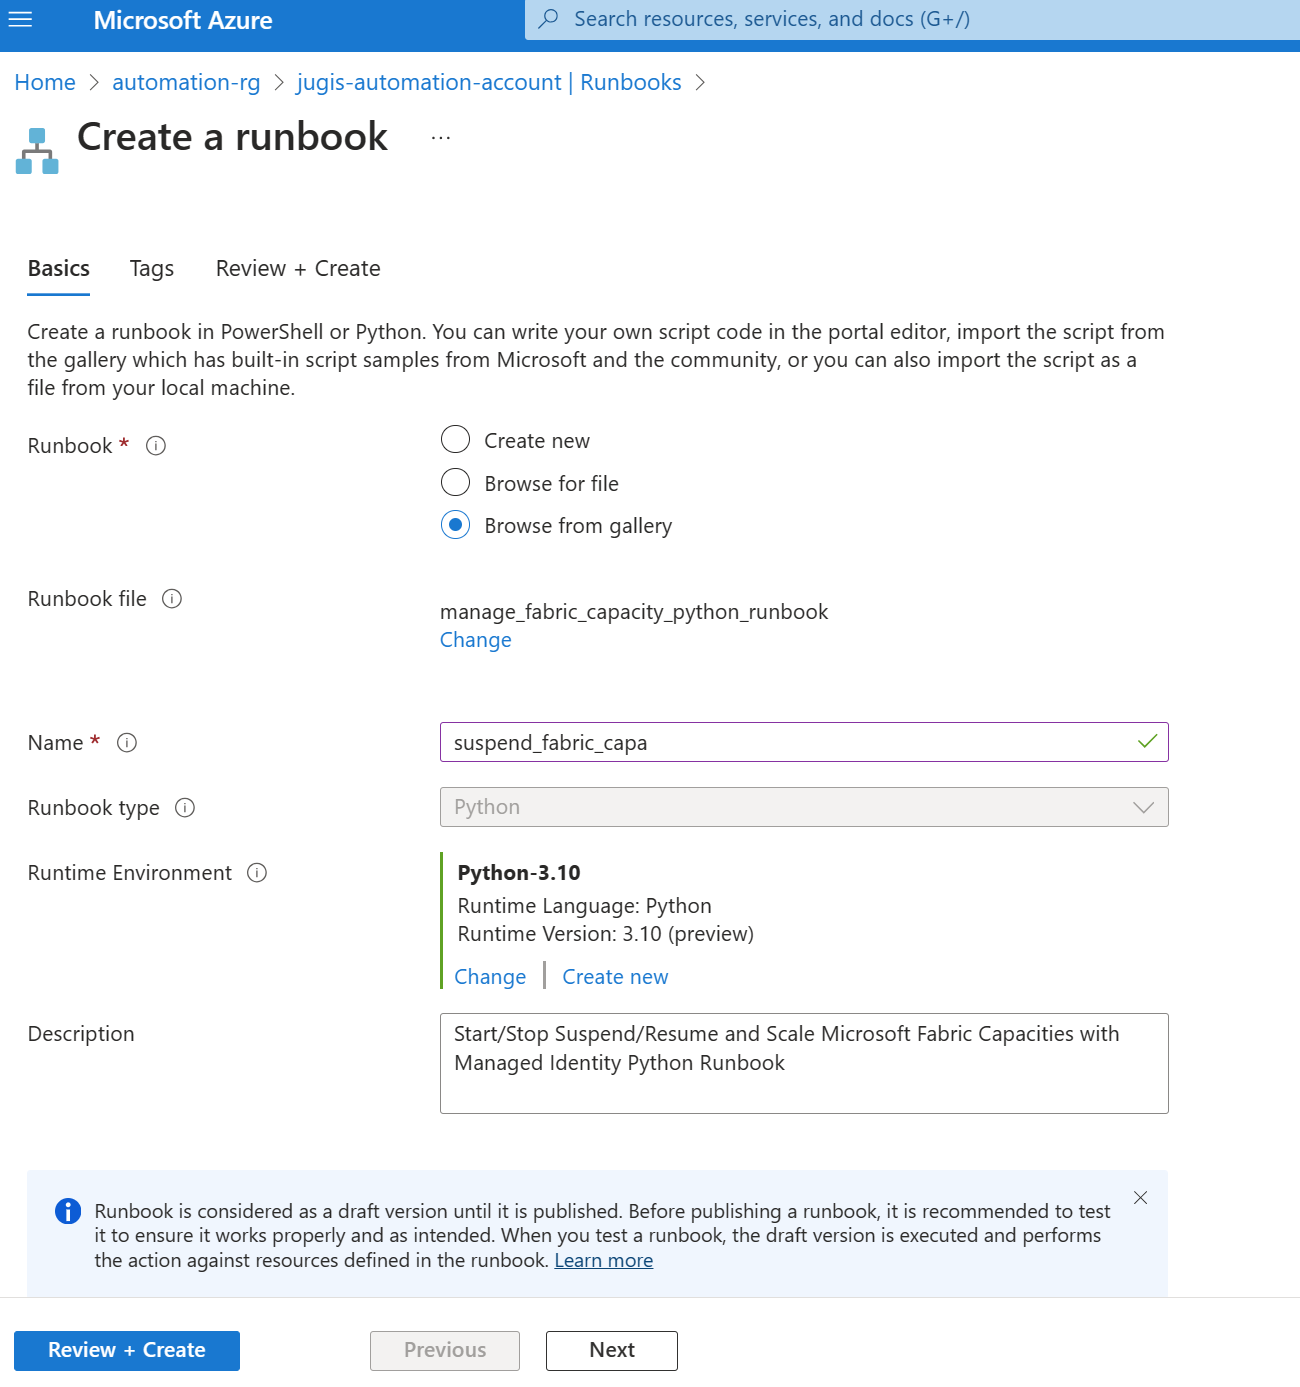
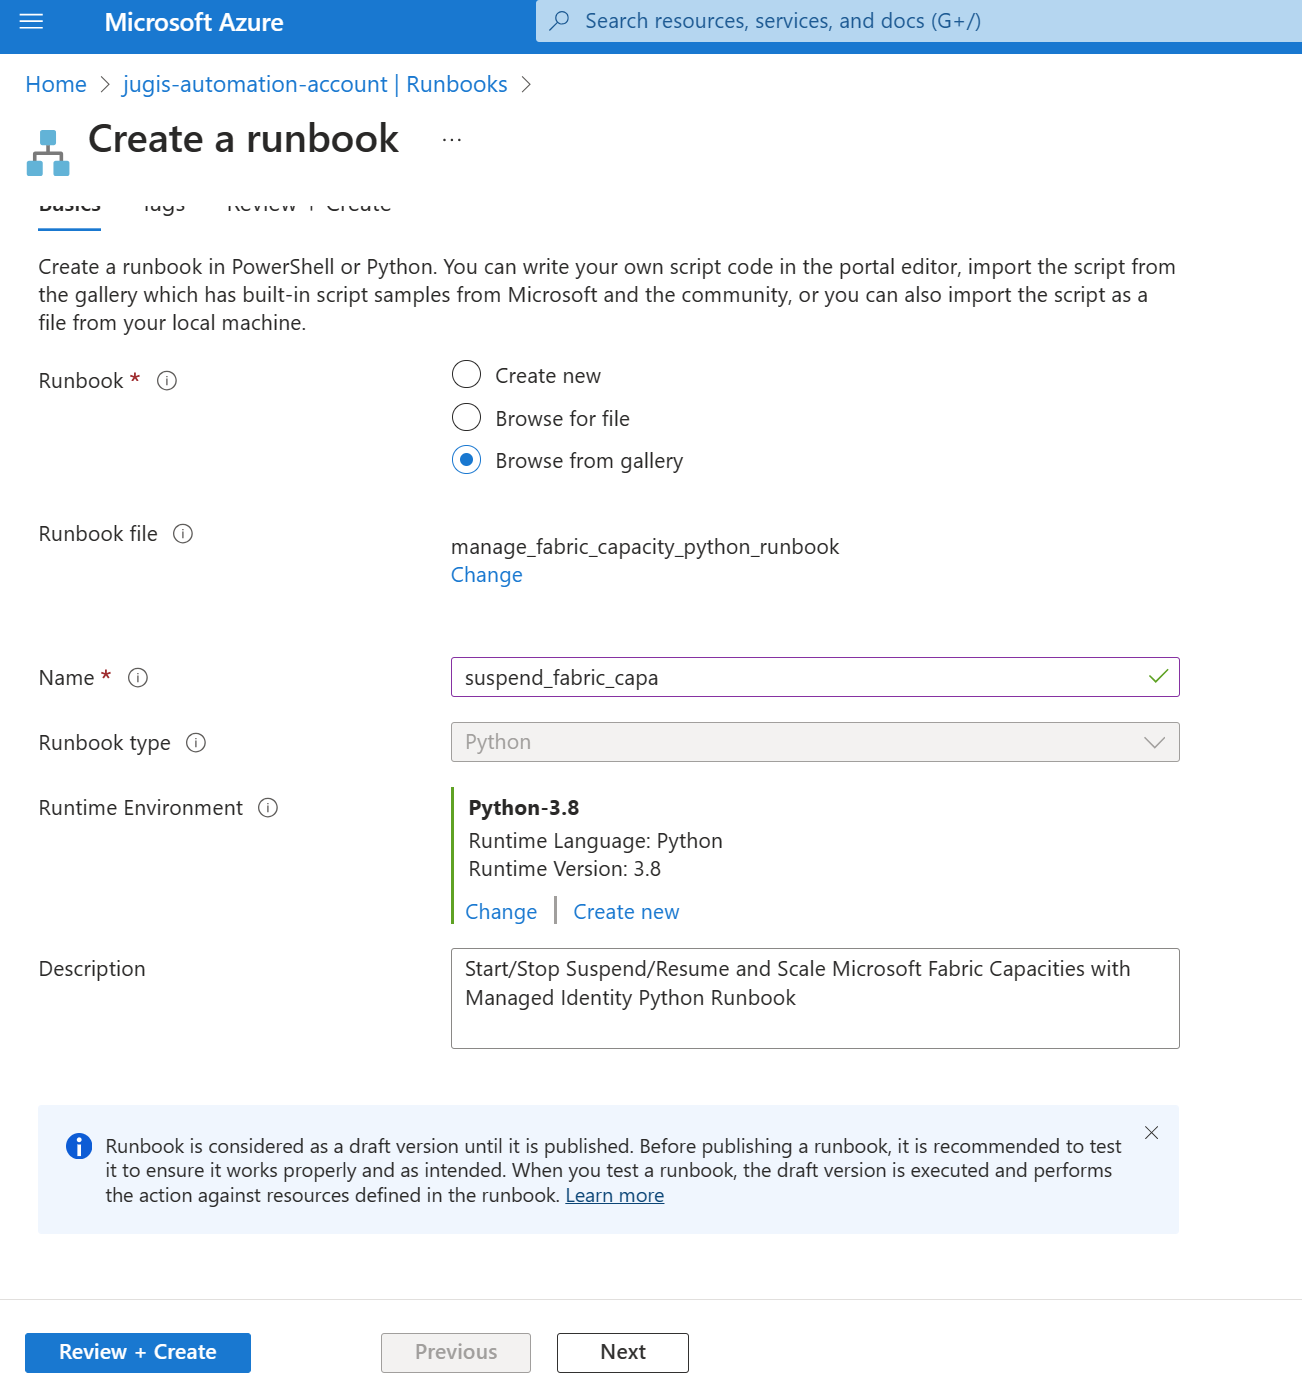
python 3.8 because 3.10 does not include requests package

diff --git a/README.md b/README.md
@@ -27,7 +27,7 @@ Choose from Gallery:
 Search Gallery for "Fabric":
 ![Search Gallery for "Fabric"](media/03_Screenshot_Search_Gallery_For_Fabric.png)
 
-Name the Runbook and select Python Runtime:
+Name the Runbook and select Python Runtime (currently only Python 3.8 supported, 3.10 is still in preview and does not include `requests` package):
 ![Name the Runbook and select Python Runtime](media/04_Screenshot_Name_Runbook_and_Select_Runtime_Environment.png)
 
 Publish the runbook:
